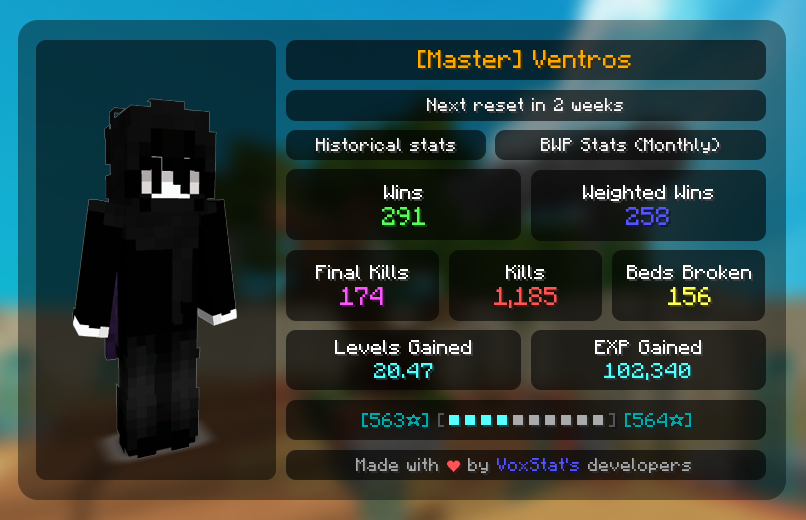
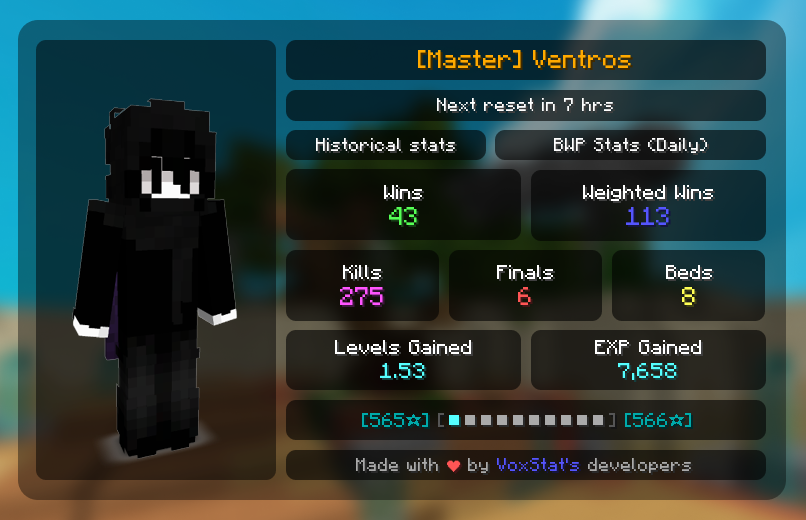
fix(rendering): finals and kills wrong stat box

diff --git a/core/rendering/stats/session.py b/core/rendering/stats/session.py
@@ -29,9 +29,9 @@ async def render_session(uuid: str, session: int) -> None:
         (f'&fWins', {'position': (404, 185), "align": "center", "font_size": 16}),
         (f'&fWeighted Wins', {'position': (649, 185), "align": "center", "font_size": 16}),
 
-        (f'&fFinal Kills', {'position': (363, 265), "align": "center", "font_size": 16}),
-        (f'&fKills', {'position': (526, 265), "align": "center", "font_size": 16}),
-        (f'&fBeds Broken', {'position': (690, 265), "align": "center", "font_size": 16}),
+        (f'&fKills', {'position': (363, 265), "align": "center", "font_size": 16}),
+        (f'&fFinals', {'position': (526, 265), "align": "center", "font_size": 16}),
+        (f'&fBeds', {'position': (690, 265), "align": "center", "font_size": 16}),
 
         (f'&fLevels Gained', {'position': (404, 340), "align": "center", "font_size": 16}),
         (f'&fEXP Gained', {'position': (649, 340), "align": "center", "font_size": 16}),
@@ -64,8 +64,8 @@ async def render_session(uuid: str, session: int) -> None:
         (f'&a{wins:,}', {'position': (404, 207), "align": "center", "font_size": 20}),
         (f'&9{weighted:,}', {'position': (649, 207), "align": "center", "font_size": 20}),
 
-        (f'&d{finals:,}', {'position': (363, 287), "align": "center", "font_size": 20}),
-        (f'&c{kills:,}', {'position': (526, 287), "align": "center", "font_size": 20}),
+        (f'&d{kills:,}', {'position': (363, 287), "align": "center", "font_size": 20}),
+        (f'&c{finals:,}', {'position': (526, 287), "align": "center", "font_size": 20}),
         (f'&e{beds:,}', {'position': (690, 287), "align": "center", "font_size": 20}),
 
         (f'&b{stars_gained}', {'position': (404, 362), "align": "center", "font_size": 18}),

diff --git a/core/rendering/stats/historical.py b/core/rendering/stats/historical.py
@@ -33,9 +33,9 @@ async def render_historical(
         (f'&fWins', {'position': (404, 185), "align": "center", "font_size": 16}),
         (f'&fWeighted Wins', {'position': (649, 185), "align": "center", "font_size": 16}),
 
-        (f'&fFinal Kills', {'position': (363, 265), "align": "center", "font_size": 16}),
-        (f'&fKills', {'position': (526, 265), "align": "center", "font_size": 16}),
-        (f'&fBeds Broken', {'position': (690, 265), "align": "center", "font_size": 16}),
+        (f'&fKills', {'position': (363, 265), "align": "center", "font_size": 16}),
+        (f'&fFinals', {'position': (526, 265), "align": "center", "font_size": 16}),
+        (f'&fBeds', {'position': (690, 265), "align": "center", "font_size": 16}),
 
         (f'&fLevels Gained', {'position': (404, 340), "align": "center", "font_size": 16}),
         (f'&fEXP Gained', {'position': (649, 340), "align": "center", "font_size": 16}),
@@ -66,8 +66,8 @@ async def render_historical(
         (f'&a{wins:,}', {'position': (404, 207), "align": "center", "font_size": 20}),
         (f'&9{weighted:,}', {'position': (649, 207), "align": "center", "font_size": 20}),
 
-        (f'&d{finals:,}', {'position': (363, 287), "align": "center", "font_size": 20}),
-        (f'&c{kills:,}', {'position': (526, 287), "align": "center", "font_size": 20}),
+        (f'&d{kills:,}', {'position': (363, 287), "align": "center", "font_size": 20}),
+        (f'&c{finals:,}', {'position': (526, 287), "align": "center", "font_size": 20}),
         (f'&e{beds:,}', {'position': (690, 287), "align": "center", "font_size": 20}),
 
         (f'&b{stars_gained}', {'position': (404, 362), "align": "center", "font_size": 18}),
